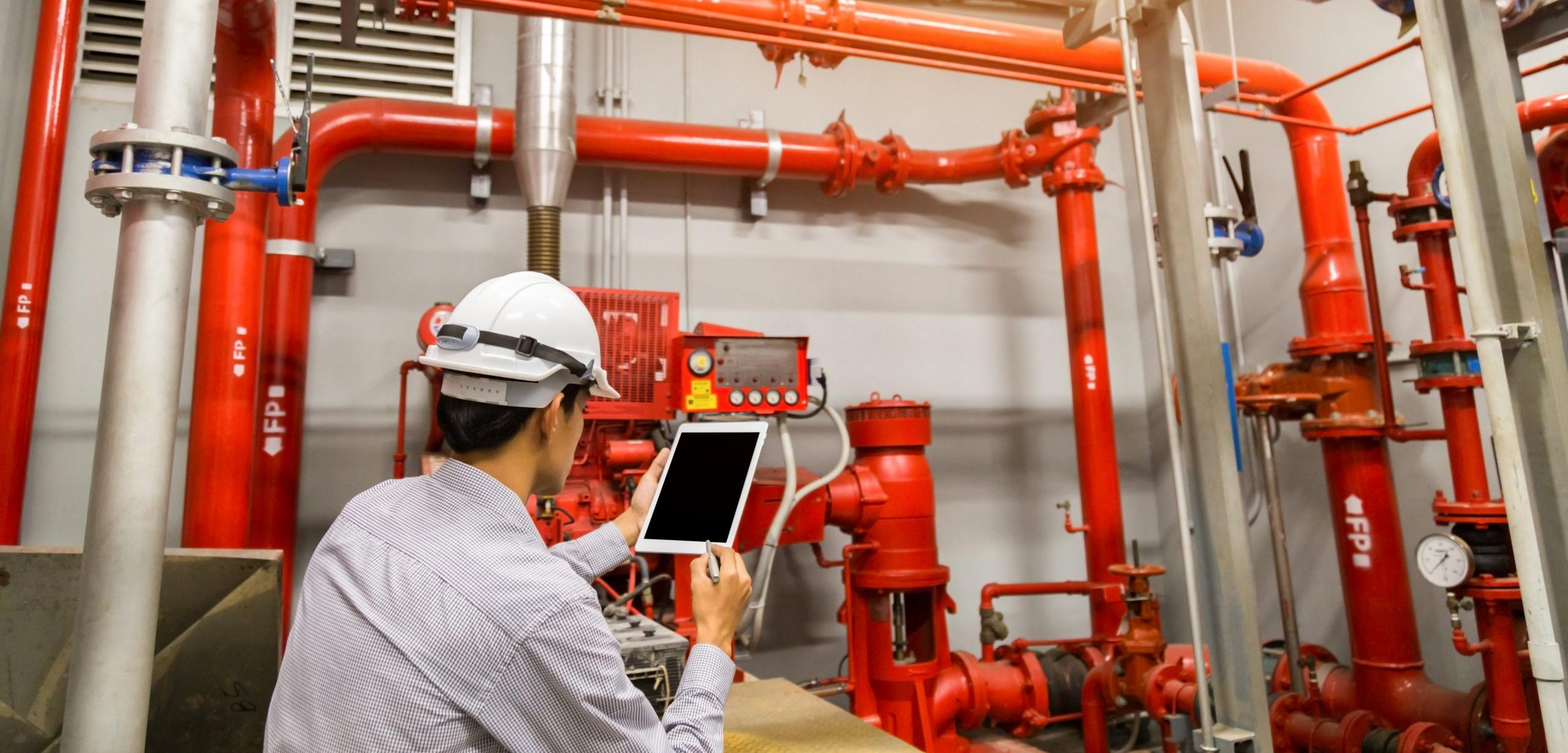
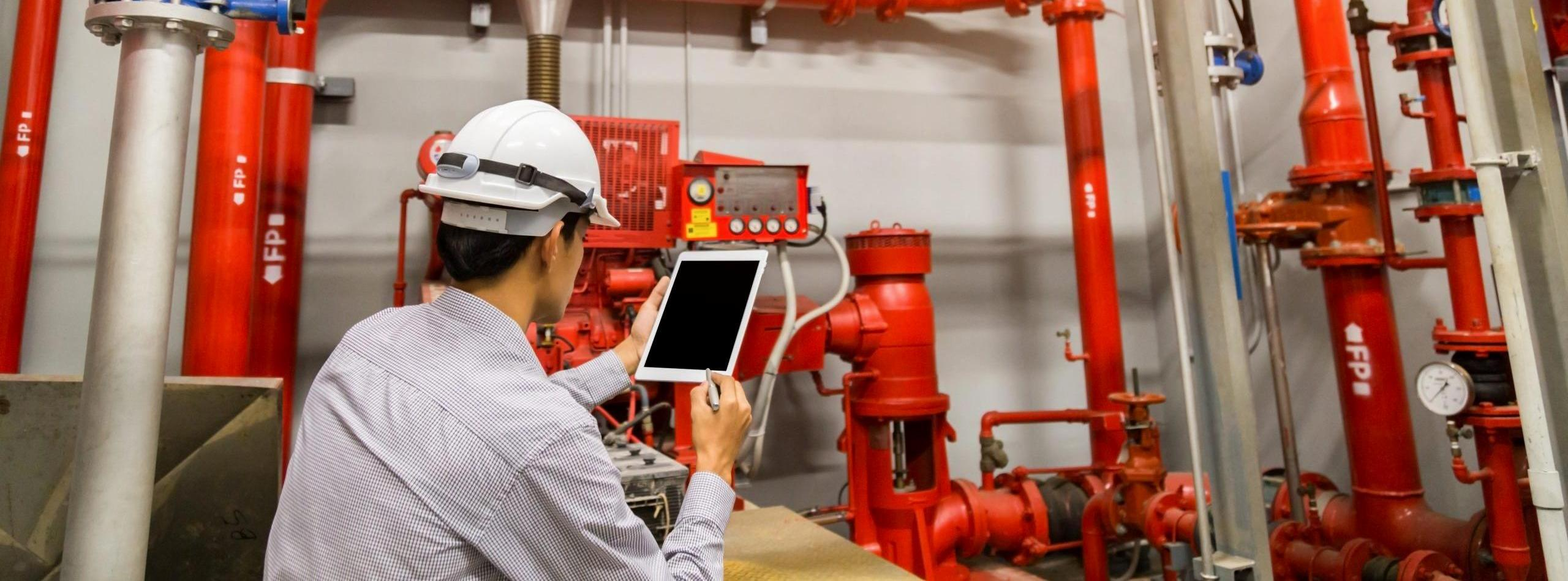
Better Pages

diff --git a/client/src/defaults/pages/about.js b/client/src/defaults/pages/about.js
@@ -1,5 +1,7 @@
 // [EXPORT] //
 module.exports = {
+	parallaxImg: require('../../assets/images/pages/about/parallax.png'),
+
 	// About //
 	r1: {
 		c1: {
@@ -27,7 +29,7 @@ module.exports = {
 				require('../../assets/images/pages/about/jason.webp'),
 			],
 
-			description: 'Lorem ipsum dolor sit amet, consectetur adipiscing elit, sed do eiusmod tempor incididunt ut labore et dolore magna aliqua. Ut enim ad minim veniam, quis nostrud exercitation ullamco laboris nisi ut aliquip ex ea commodo consequat. Duis aute irure dolor in reprehenderit in voluptate velit esse cillum dolore eu fugiat nulla pariatur. Excepteur sint occaecat cupidatat non proident, sunt in culpa qui officia deserunt mollit anim id est laborum.'
+			description: 'Our headquarters is located in Belleville New Jersey, a place we call home. We serve all areas in New Jersey focusing on locations like Newark, Jersey City, Hackensack, and more. We aim to please our customers by installing systems that help prevent fires, protect assets, and most importantly save lives! We hope you love our services just as much as we love serving you New Jersey! You can see above our great team that we have that work hard everyday to make sure that your assets are prepared for anything life throws at it. 24/7!'
 		},
 
 		// CEO //

diff --git a/client/src/pages/about.vue b/client/src/pages/about.vue
@@ -1,7 +1,7 @@
 <template>
 	<div>
 		<!-- Parallax Image Above -->
-		<Parallax />
+		<Parallax :imgURL="defaultData.parallaxImg" />
 
 		<!-- Content -->
 		<BContainer>
